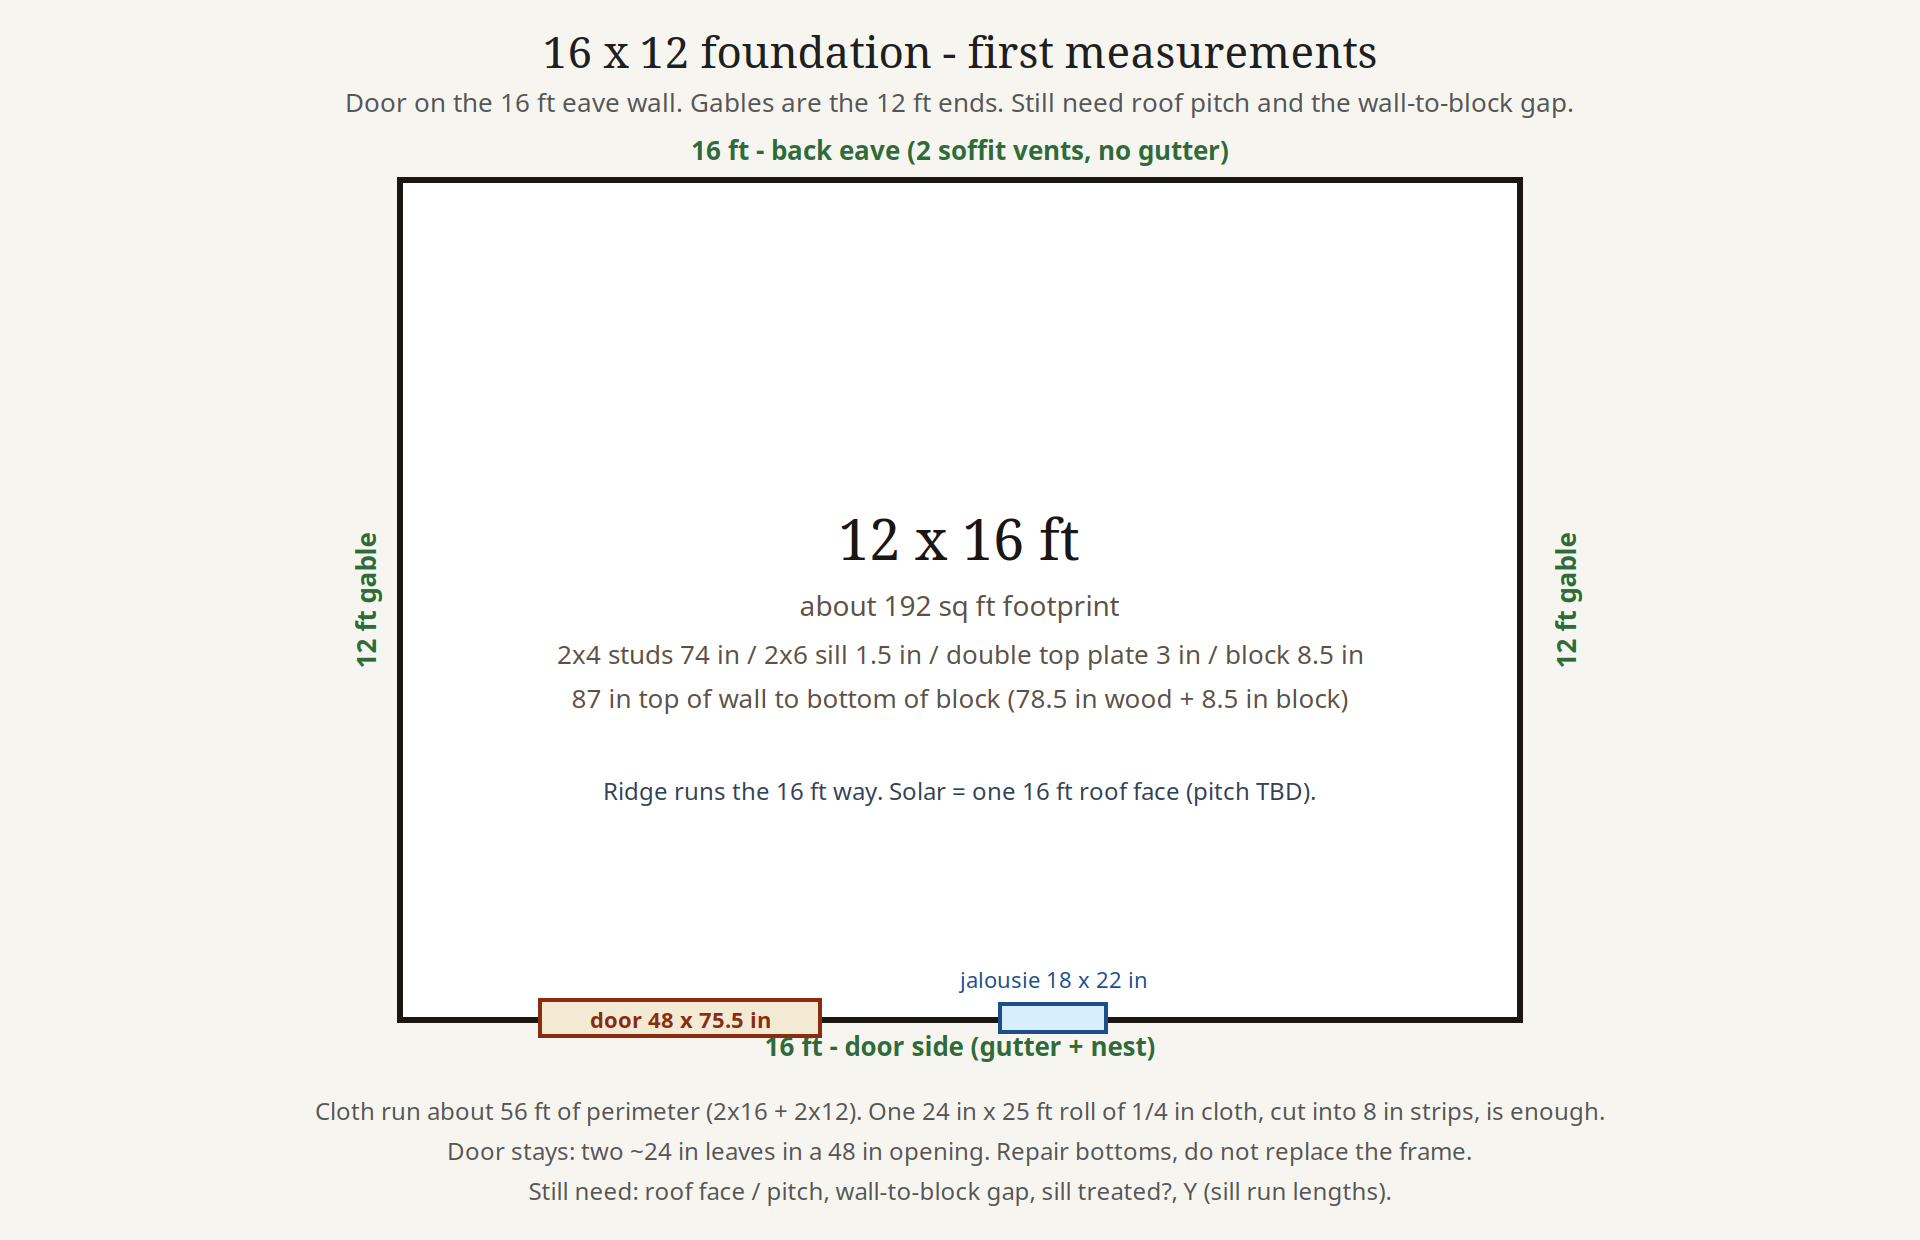
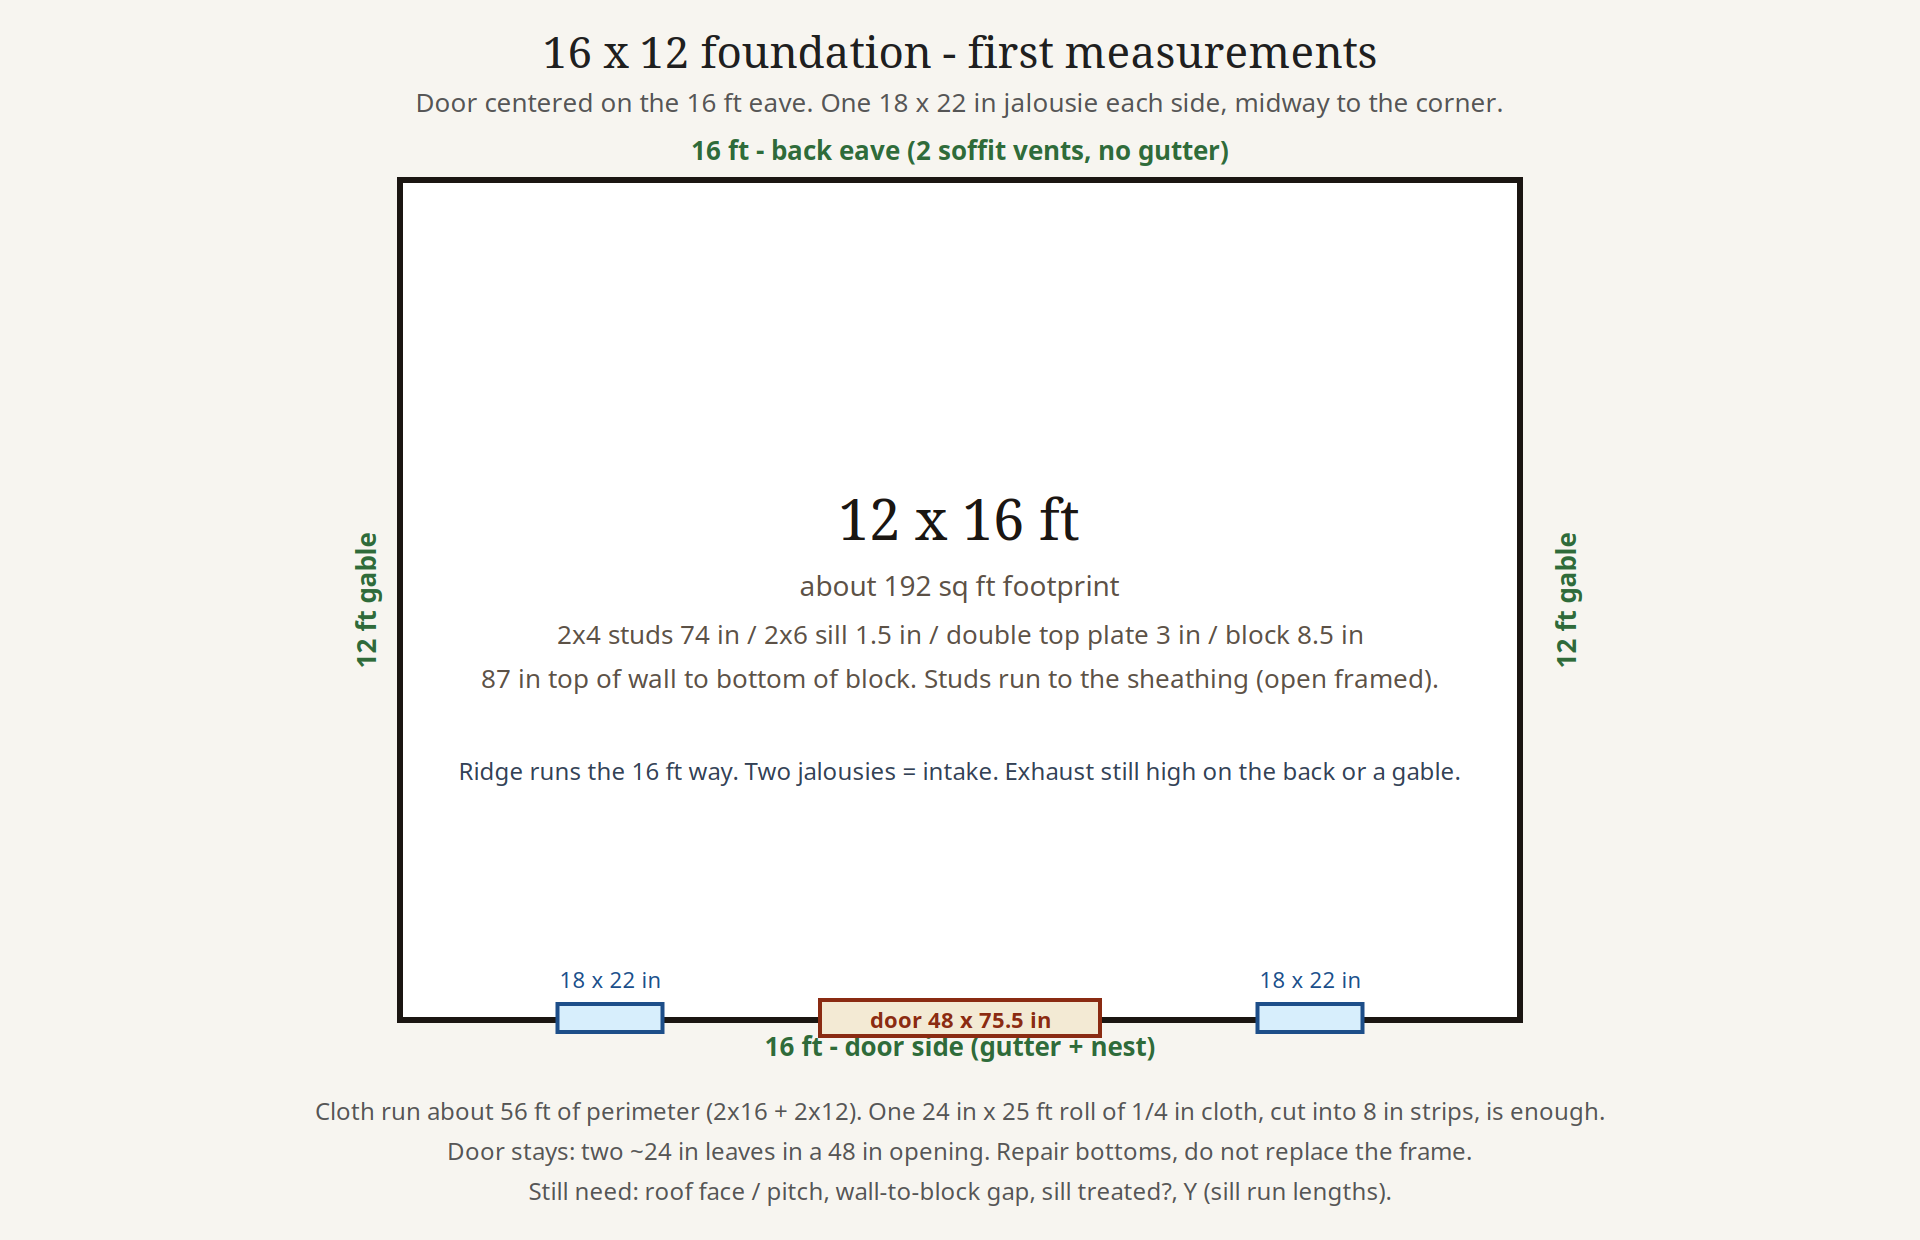
Center the door and add a jalousie on each side.
Studs run to the sheathing. Both windows are intake for the
exhaust fan; the fan still goes high on the back or a gable.

diff --git a/index.html b/index.html
@@ -97,9 +97,9 @@
       </div>
       <figure class="diagram">
         <a href="diagrams/floor-plan.png">
-          <img src="diagrams/floor-plan.png" alt="Floor plan: 16 by 12 foot foundation, door and jalousie on the 16 foot eave wall.">
+          <img src="diagrams/floor-plan.png" alt="Floor plan: 16 by 12 foot foundation, centered double door with a jalousie on each side.">
         </a>
-        <figcaption>First measurements: 16 × 12 ft foundation. Door on the long wall. Roof pitch and the block-line gap still TBD.</figcaption>
+        <figcaption>First measurements: 16 × 12 ft. Centered door, jalousie each side. Roof pitch and the block-line gap still TBD.</figcaption>
       </figure>
       <figure class="diagram">
         <a href="diagrams/radiant-barrier-diagram.png">

diff --git a/NOTES.md b/NOTES.md
@@ -2,6 +2,11 @@
 
 A brief, dated log of everything discussed for the shed improvement project. Newest entries are added at the top.
 
+## 2026-09-04 (door centered, two jalousies)
+- Front wall: **door in the middle**, one **18 × 22" jalousie on each side**, each centered between the door and the corner. Plan updated: [diagrams/floor-plan.png](diagrams/floor-plan.png).
+- Better for the fan than one window: both jalousies as intake, exhaust still high on the back eave wall or a gable.
+- **Studs run all the way up to the sheathing** — open framed, no interior finish. Double top plate still sits under the rafters on the eave walls; gable studs continue up the triangle to the roof OSB.
+
 ## 2026-09-03 (diagram PNGs)
 - Exported the how-to SVGs to PNGs so they display cleanly on the progress site and phones: [diagrams/floor-plan.png](diagrams/floor-plan.png), [diagrams/sill-seal.png](diagrams/sill-seal.png), and a fresh [diagrams/radiant-barrier-diagram.png](diagrams/radiant-barrier-diagram.png). SVGs stay the editable source.
 
@@ -11,7 +16,7 @@ A brief, dated log of everything discussed for the shed improvement project. New
 ## 2026-09-03 (first measurements)
 - Foundation **16 ft (door/eave walls) × 12 ft (gables)**. ~192 sq ft. Bigger than the 8–12 ft guess. Plan: [diagrams/floor-plan.png](diagrams/floor-plan.png).
 - Door: opening **48 × 75.5"**; each leaf **~24-1/16 × 75"**; closed exterior pair **46 × 75"**. Double door, keep the frame, repair bottoms. Bikes / mower / wheelbarrow fit.
-- Window (jalousie): **18 × 22"**.
+- Windows: **two** 18 × 22" jalousies on the door wall, one each side of the centered 48" door.
 - Wall top-to-bottom **87"**. Block stem **8.5"**. Stud **74 × 1.5 × 3.5"** (2×4). Sill **5.5 × 1.5 × Y** (that's a **2×6** plate; Y not taped). **Double top plate** confirmed. 74 + 1.5 + 3" = 78.5"; 87 − 8.5 = 78.5" — 87" is **top of wall to bottom of the block**.
 - Hardware cloth: **56 ft** of perimeter. One 24"×25 ft roll of 1/4" cloth, ripped into 8" strips, covers it with leftover for jambs.
 - Still need: roof pitch or one rafter / ridge height (foil + solar), gap width at the block line, whether the 2×6 is treated, Y if we replace plate.
@@ -20,7 +25,7 @@ A brief, dated log of everything discussed for the shed improvement project. New
 - Don't buy a fogger / bug bomb. This shed is full of exits (block-line gap, jalousie, soffit vents, ridge vent, doors). The fog mostly leaves. It will not treat the **yellow jacket nest under the gutters** (that's a dusk/dawn nest spray, Phase 0). It doesn't soak the sill gap or droppings. Gas cans in the shed + a fogger is a fire hazard. Stick with: nest spray outside, then wet-clean, crack-and-crevice residual, baits, DE/boric in the gap, then seal with hardware cloth.
 
 ## 2026-09-03 (sill seal plan)
-- Salvageable-path sealing is now a Phase 2 sequence in [TODO.md](TODO.md). Cross-section: [diagrams/sill-seal.svg](diagrams/sill-seal.svg).
+- Salvageable-path sealing is now a Phase 2 sequence in [TODO.md](TODO.md). Cross-section: [diagrams/sill-seal.png](diagrams/sill-seal.png).
 - Stack (locked): **1/4" hardware cloth in the wall-to-block gap** (pests) + **Z-flashing or a PT/PVC skirt** that drips past the block (weather). Optional foam only *behind* the cloth. Never foam-only — it holds water on the plate and mice chew it.
 - Order: probe / sister first → clean the gap → cloth all the way around including door jambs → flashing/skirt → door sweep + kick plate last.
 - Extra water fix from [photos/exterior.jpg](photos/exterior.jpg): the **downspout dumps on the foundation corner**. Elbow + 4–6 ft extension (or a splash block) before we blame the siding. Keep grass/soil off the T1-11.

diff --git a/README.md b/README.md
@@ -62,11 +62,11 @@ Open `README.md` first. Agent context lives in [`.cursorrules`](.cursorrules). T
 - **Door:** 48 × 75.5" opening, two ~24" leaves. Bottoms rotting, frame good — repair, don't replace the opening.
 - **Foundation:** **16 × 12 ft** slab + ~8.5" cinder-block stem. Sill is a **2×6** (5.5 × 1.5). Bottom ~6–10" of 74" 2×4 studs/sheathing is moisture-stained — probe before sealing. Saveable-looking. Seal = **hardware cloth in the gap + flashing/skirt**, not foam-only. Downspout dumps on the corner — move it. See [diagrams/sill-seal.png](diagrams/sill-seal.png) and [diagrams/floor-plan.png](diagrams/floor-plan.png).
 - **Roof inside:** open 2x4 rafters, bare OSB. Back eave has **two soffit vents**; front gutter/eave has none. Take lumber off the collar ties before the foil. Don't block the soffit or ridge. Roof face / pitch still unmeasured.
-- **Dimensions:** 16 × 12 foundation, 87" top-of-wall to bottom-of-block (2×6 sill + 74" 2×4 + **double top plate** + 8.5" block). 48 × 75.5" door, 18 × 22" window. Still need roof pitch and the wall-to-block gap.
+- **Dimensions:** 16 × 12 foundation, 87" top-of-wall to bottom-of-block (2×6 sill + 74" 2×4 + **double top plate** + 8.5" block). Centered 48 × 75.5" door with an **18 × 22" jalousie on each side**. Studs run to the sheathing. Still need roof pitch and the wall-to-block gap.
 
 ## Known facts
 
 - Approach: DIY as much as possible
-- Exterior: faded tan T1-11 siding, white trim, dark shingle gable roof, white gutters, 18×22 jalousie, small ridge vent, **two soffit vents on the back eave and none on the front gutter/eave**
+- Exterior: faded tan T1-11 siding, white trim, dark shingle gable roof, white gutters, **two** 18×22 jalousies flanking a centered double door, small ridge vent, **two soffit vents on the back eave and none on the front gutter/eave**
 - Size: **16 ft eave × 12 ft gable**, ~192 sq ft. 2×4 walls, 2×6 sill, ~8.5" block.
 - Photos: [photos/exterior.jpg](photos/exterior.jpg), [photos/exterior-back.jpg](photos/exterior-back.jpg), [photos/interior.jpg](photos/interior.jpg), [photos/interior-roof.jpg](photos/interior-roof.jpg), [photos/interior-rafters.jpg](photos/interior-rafters.jpg), [photos/interior-sill.jpg](photos/interior-sill.jpg)

diff --git a/TODO.md b/TODO.md
@@ -74,7 +74,7 @@ Do this **early or late**, doors + jalousie open. **Do not dry-sweep droppings**
 - [ ] Re-paint (prefer a lighter color than the current faded tan — helps the 105°F problem)
 
 ### Sill / block-line seal (after the probe)
-Do this **after** Phase 1 cleanup + the screwdriver test. If bottoms are punky, sister or swap plate sections first. See [diagrams/sill-seal.svg](diagrams/sill-seal.svg).
+Do this **after** Phase 1 cleanup + the screwdriver test. If bottoms are punky, sister or swap plate sections first. See [diagrams/sill-seal.png](diagrams/sill-seal.png).
 
 - [ ] Measure the exterior wall-to-block gap (height and how far it runs) on all four sides + both door jambs
 - [ ] Scrape dirt, old foam, and webs out of the gap; shop-vac the plate from inside
@@ -102,7 +102,7 @@ Do this **after** Phase 1 cleanup + the screwdriver test. If bottoms are punky, 
 - [ ] Install interior radiant barrier: staple to the **underside of the rafters** (not tight to the OSB) so a 1"+ air gap stays against the hot deck; leave the **ridge vent and back soffit vents** unblocked
 - [ ] Seal daylight gaps at corners and roof-to-wall joints (not only the foundation line)
 - [ ] After the nest is gone: knock webs off the back soffit vents so they actually pull (don't paint the louvers shut)
-- [ ] Add an exhaust fan (jalousie as intake, exhaust high on the opposite side or gable) — soffit vents are for the roof bay, not a substitute for this
+- [ ] Add an exhaust fan (**both jalousies** as intake, exhaust high on the opposite side or gable) — soffit vents are for the roof bay, not a substitute for this
 - [ ] Optional later: foil-faced foam on walls if roof + fan isn't enough
 
 ## Phase 4 — Power (keep it small)
